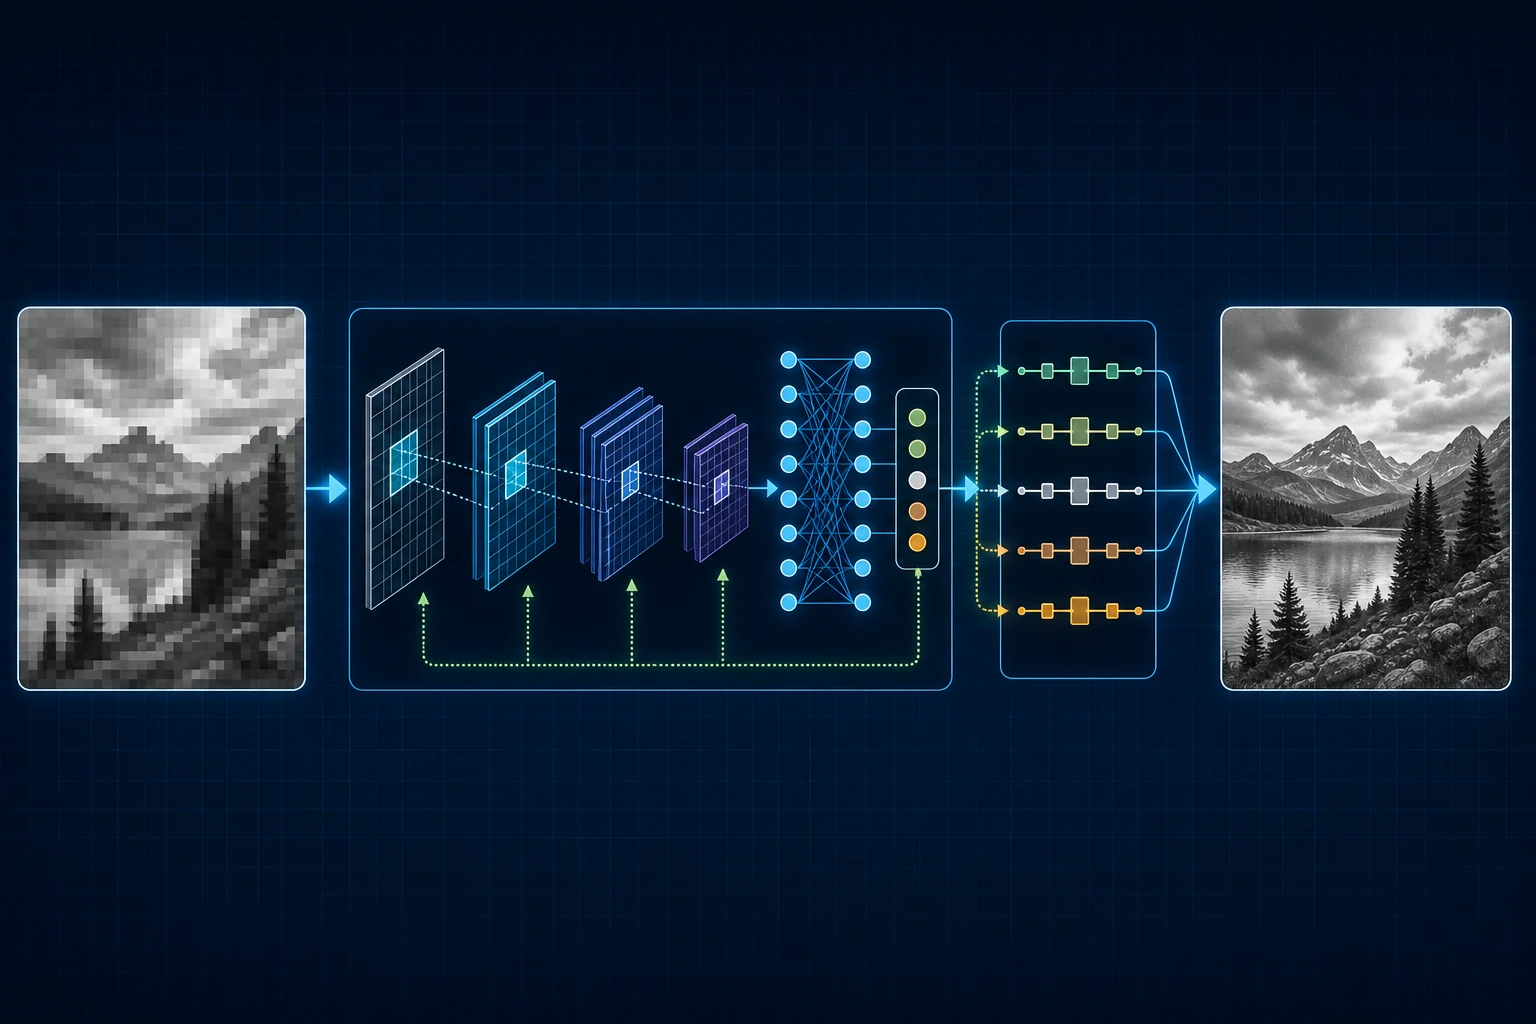
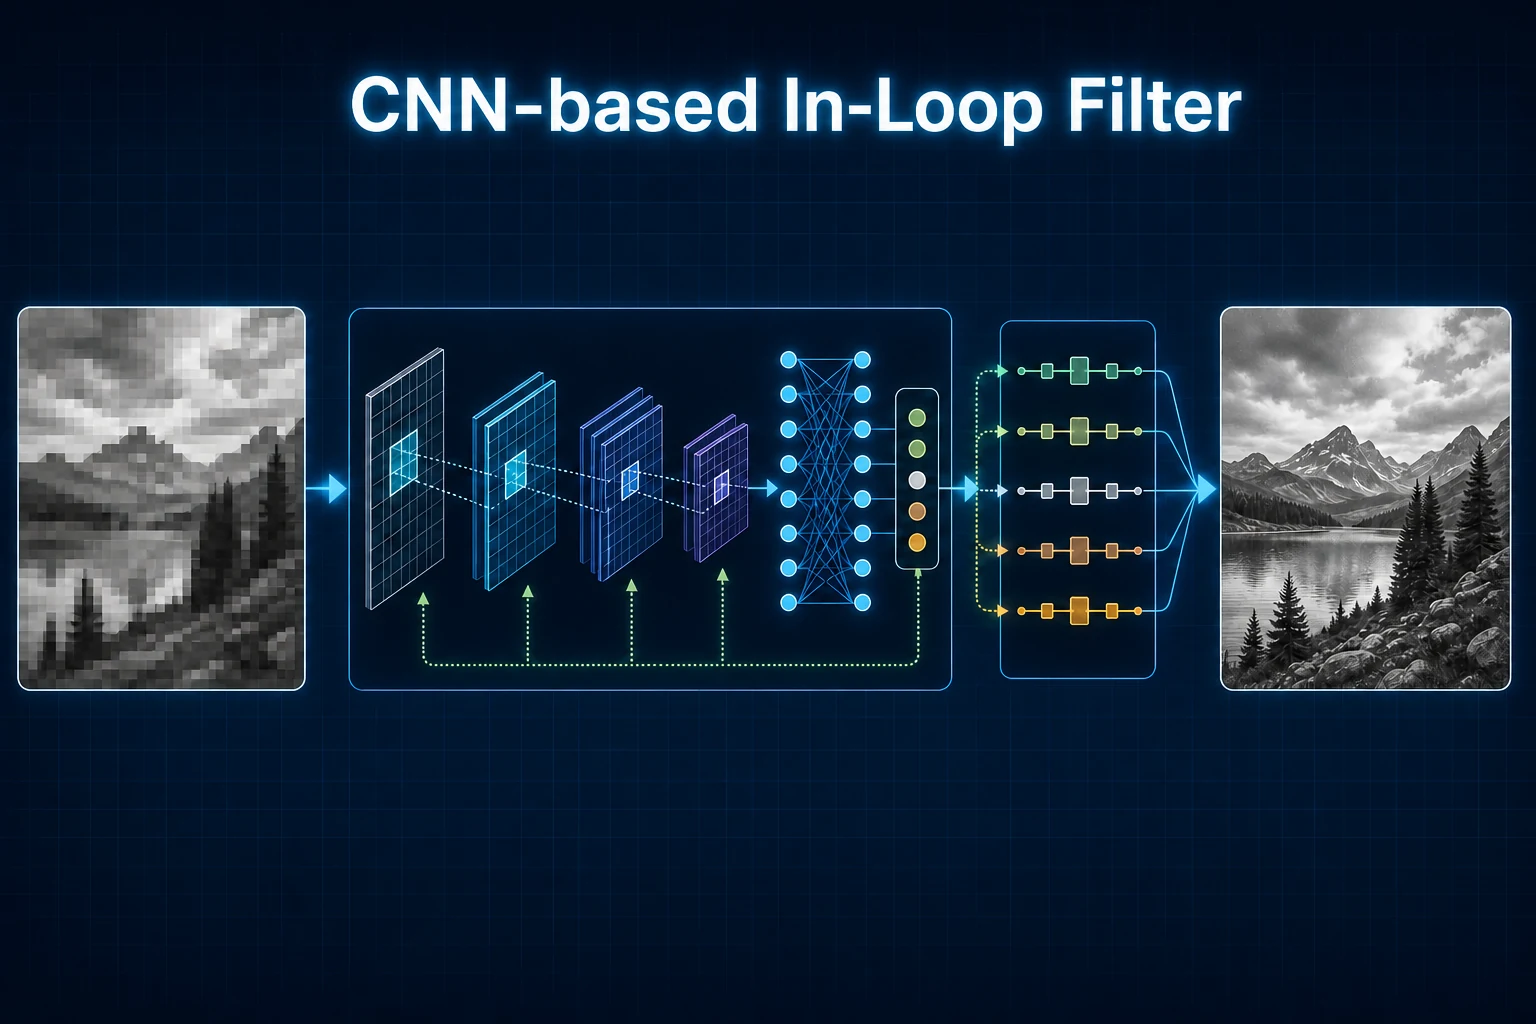
assets: title CNN publication image

diff --git a/docs/project-status.md b/docs/project-status.md
@@ -55,6 +55,16 @@ Updated: 2026-07-24
 
 ## Iteration log
 
+2026-08-12 — CNN publication image title revision — complete
+Result: Added the exact title “CNN-based In-Loop Filter” to the conference
+publication illustration while preserving the CNN/filtering diagram.
+Evidence: revised 1536x1024 source inspected; public derivative is a
+122,538-byte WebP; title is centered in the top margin and does not overlap the
+diagram.
+Commit: `assets: title CNN publication image` (this iteration)
+Blockers: none
+Next: H-008 — perform live acceptance and the 30-second scan test
+
 2026-08-12 — CNN adaptive-loop-filter publication image — complete
 Result: Replaced the conference-paper concept artwork with a publication-style
 scientific illustration showing blocky input, CNN feature layers and

diff --git a/docs/content-approvals.md b/docs/content-approvals.md
@@ -403,8 +403,10 @@ Approval states: `pending`, `approved`, or `omit`.
   and detail dialog.
 - Processing: generated at 1536x1024 and saved as an optimized WebP; the image
   contains no words, logos, watermarks, or private information.
-- Public-use approval: Johannes explicitly requested this replacement in the
-  Codex task on 2026-08-12.
+- Revision: the title “CNN-based In-Loop Filter” was added at Johannes'
+  request on 2026-08-12; the diagram remains unchanged.
+- Public-use approval: Johannes explicitly requested this replacement and title
+  revision in the Codex tasks on 2026-08-12.
 - Approved by/date: `Johannes Erfurt, 2026-08-12`
 
 ## Additional public content approval — About-page interest illustration
